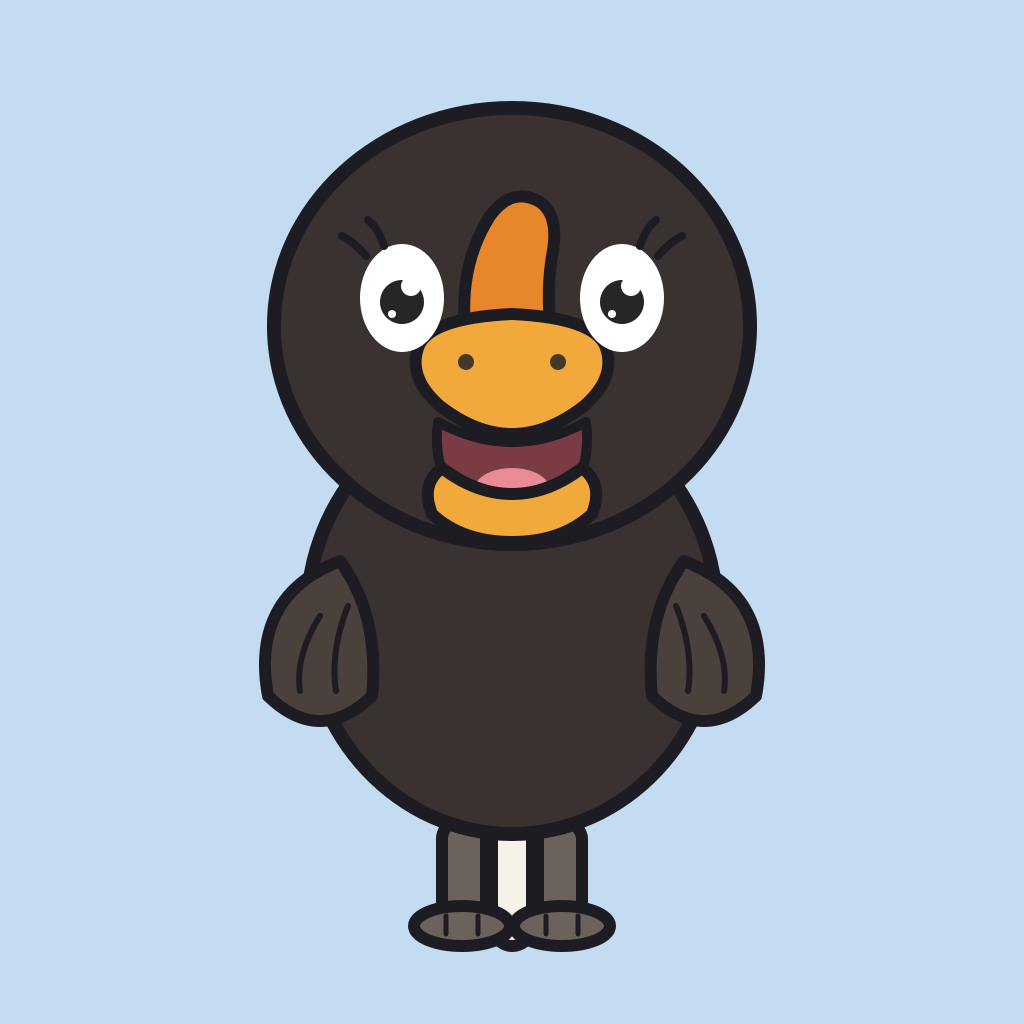
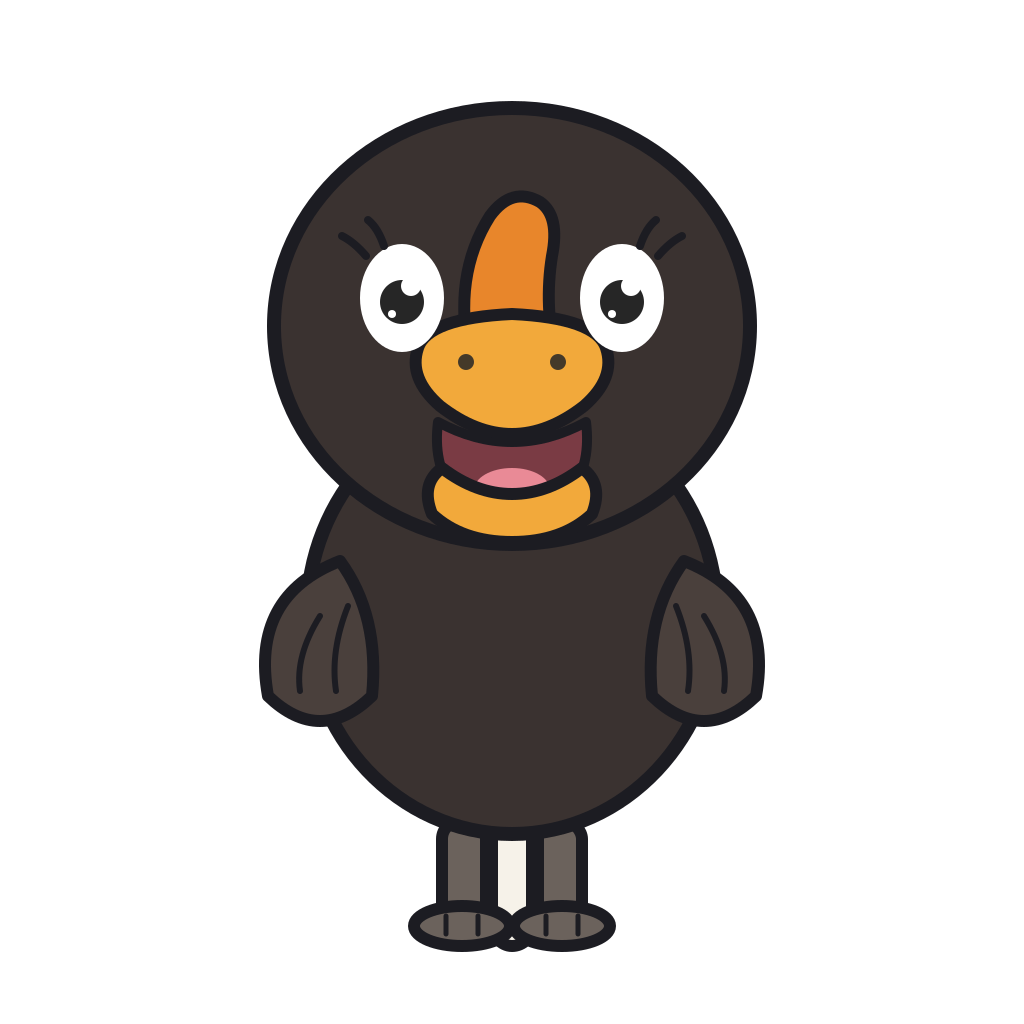
Mascot art: transparent backgrounds
Operator feedback: solid background rectangles looked wrong pasted over
the chalkboard scene. generate_mascots.py now renders with no background
rect (alpha PNG); checks assert corner alpha is zero and mouth-only
pair diffs. Art re-placed in all templates and -ms projects; dialog-ms
re-rendered with cached Revolab voices.

diff --git a/assets/mascots/generate_mascots.py b/assets/mascots/generate_mascots.py
@@ -24,13 +24,14 @@ logging.basicConfig(
 logger = logging.getLogger("mascots")
 
 
-def svg_wrap(body: str, bg: str) -> str:
+def svg_wrap(body: str, bg: str | None) -> str:
+    """bg=None renders a transparent background (alpha PNG)."""
+    bg_rect = f'<rect width="{SIZE}" height="{SIZE}" fill="{bg}"/>' if bg else ""
     return (
         f'<svg xmlns="http://www.w3.org/2000/svg" width="{SIZE}" height="{SIZE}" '
         f'viewBox="0 0 {SIZE} {SIZE}">'
         f'<g stroke-linecap="round" stroke-linejoin="round">'
-        f'<rect width="{SIZE}" height="{SIZE}" fill="{bg}"/>'
-        f"{body}</g></svg>"
+        f"{bg_rect}{body}</g></svg>"
     )
 
 
@@ -227,21 +228,21 @@ def verify_pair(open_png: Path, close_png: Path, box: tuple[int, int, int, int],
     """Assert the open/close pair differs only inside the mouth region."""
     from PIL import Image  # noqa: PLC0415
 
-    a = Image.open(open_png).convert("RGB")
-    b = Image.open(close_png).convert("RGB")
+    a = Image.open(open_png).convert("RGBA")
+    b = Image.open(close_png).convert("RGBA")
     if a.size != b.size:
         raise RuntimeError(f"{name}: size mismatch {a.size} vs {b.size}")
     diff = set()
     pa, pb = a.tobytes(), b.tobytes()
     w, h = a.size
     for y in range(h):
-        row_a = pa[y * w * 3 : (y + 1) * w * 3]
-        row_b = pb[y * w * 3 : (y + 1) * w * 3]
+        row_a = pa[y * w * 4 : (y + 1) * w * 4]
+        row_b = pb[y * w * 4 : (y + 1) * w * 4]
         if row_a == row_b:
             continue
         for x in range(w):
-            i = x * 3
-            if row_a[i : i + 3] != row_b[i : i + 3]:
+            i = x * 4
+            if row_a[i : i + 4] != row_b[i : i + 4]:
                 diff.add((x, y))
     if not diff:
         raise RuntimeError(f"{name}: open and close images are identical, mouth did not change")
@@ -263,25 +264,24 @@ def check_presentation() -> None:
     from PIL import Image  # noqa: PLC0415
 
     expected = {
-        "momo": ("#CFE9B8", (430, 510, 595, 600)),
-        "kiki": ("#C3DCF2", (420, 410, 610, 545)),
+        "momo": (430, 510, 595, 600),
+        "kiki": (420, 410, 610, 545),
     }
-    for name, (bg_hex, mbox) in expected.items():
-        bg = tuple(int(bg_hex[i : i + 2], 16) for i in (1, 3, 5))
+    for name, mbox in expected.items():
         for variant in ("open", "close"):
             path = OUT_DIR / f"{name}_{variant}.png"
-            img = Image.open(path).convert("RGB")
+            img = Image.open(path).convert("RGBA")
             if img.size != (SIZE, SIZE):
                 raise RuntimeError(f"{path.name}: wrong size {img.size}")
             px = img.load()
             corners = [px[5, 5], px[SIZE - 6, 5], px[5, SIZE - 6], px[SIZE - 6, SIZE - 6]]
-            if any(c != bg for c in corners):
-                raise RuntimeError(f"{path.name}: background corners {corners} != {bg}")
-            # ink bbox: anything that is not the flat background
+            if any(c[3] != 0 for c in corners):
+                raise RuntimeError(f"{path.name}: corners not transparent: {corners}")
+            # ink bbox: any pixel with alpha
             xs, ys = [], []
             for y in range(0, SIZE, 2):
                 for x in range(0, SIZE, 2):
-                    if px[x, y] != bg:
+                    if px[x, y][3] > 0:
                         xs.append(x)
                         ys.append(y)
             bbox = (min(xs), min(ys), max(xs), max(ys))
@@ -322,14 +322,14 @@ def check_presentation() -> None:
 def main() -> None:
     OUT_DIR.mkdir(parents=True, exist_ok=True)
     jobs = [
-        ("momo_open.png", momo_body(momo_mouth_open()), "#CFE9B8"),
-        ("momo_close.png", momo_body(momo_mouth_close()), "#CFE9B8"),
-        ("kiki_open.png", kiki_body(kiki_mouth_open()), "#C3DCF2"),
-        ("kiki_close.png", kiki_body(kiki_mouth_close()), "#C3DCF2"),
+        ("momo_open.png", momo_body(momo_mouth_open())),
+        ("momo_close.png", momo_body(momo_mouth_close())),
+        ("kiki_open.png", kiki_body(kiki_mouth_open())),
+        ("kiki_close.png", kiki_body(kiki_mouth_close())),
     ]
-    for filename, body, bg in jobs:
+    for filename, body in jobs:
         svg_path = OUT_DIR / filename.replace(".png", ".svg")
-        svg_str = svg_wrap(body, bg)
+        svg_str = svg_wrap(body, None)
         svg_path.write_text(svg_str, encoding="utf-8")
         render(svg_str, OUT_DIR / filename)
     verify_pair(
